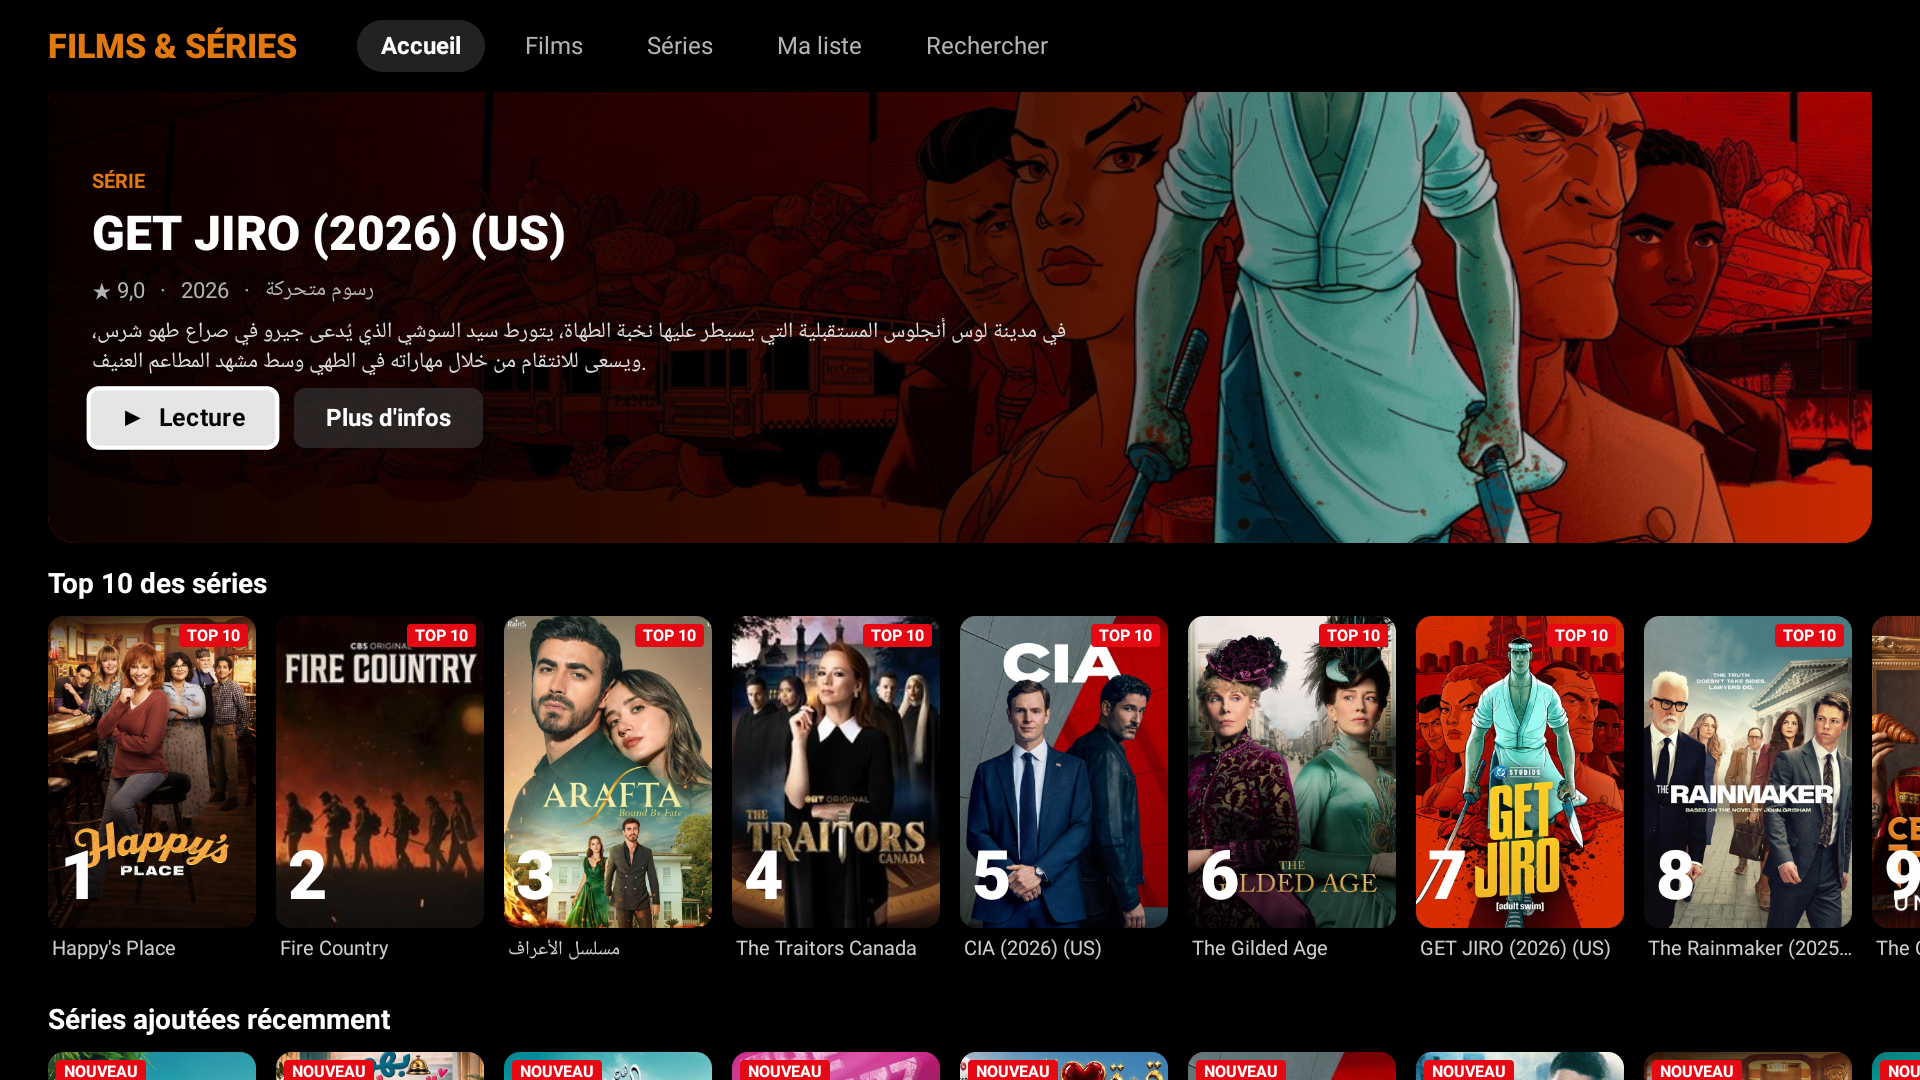
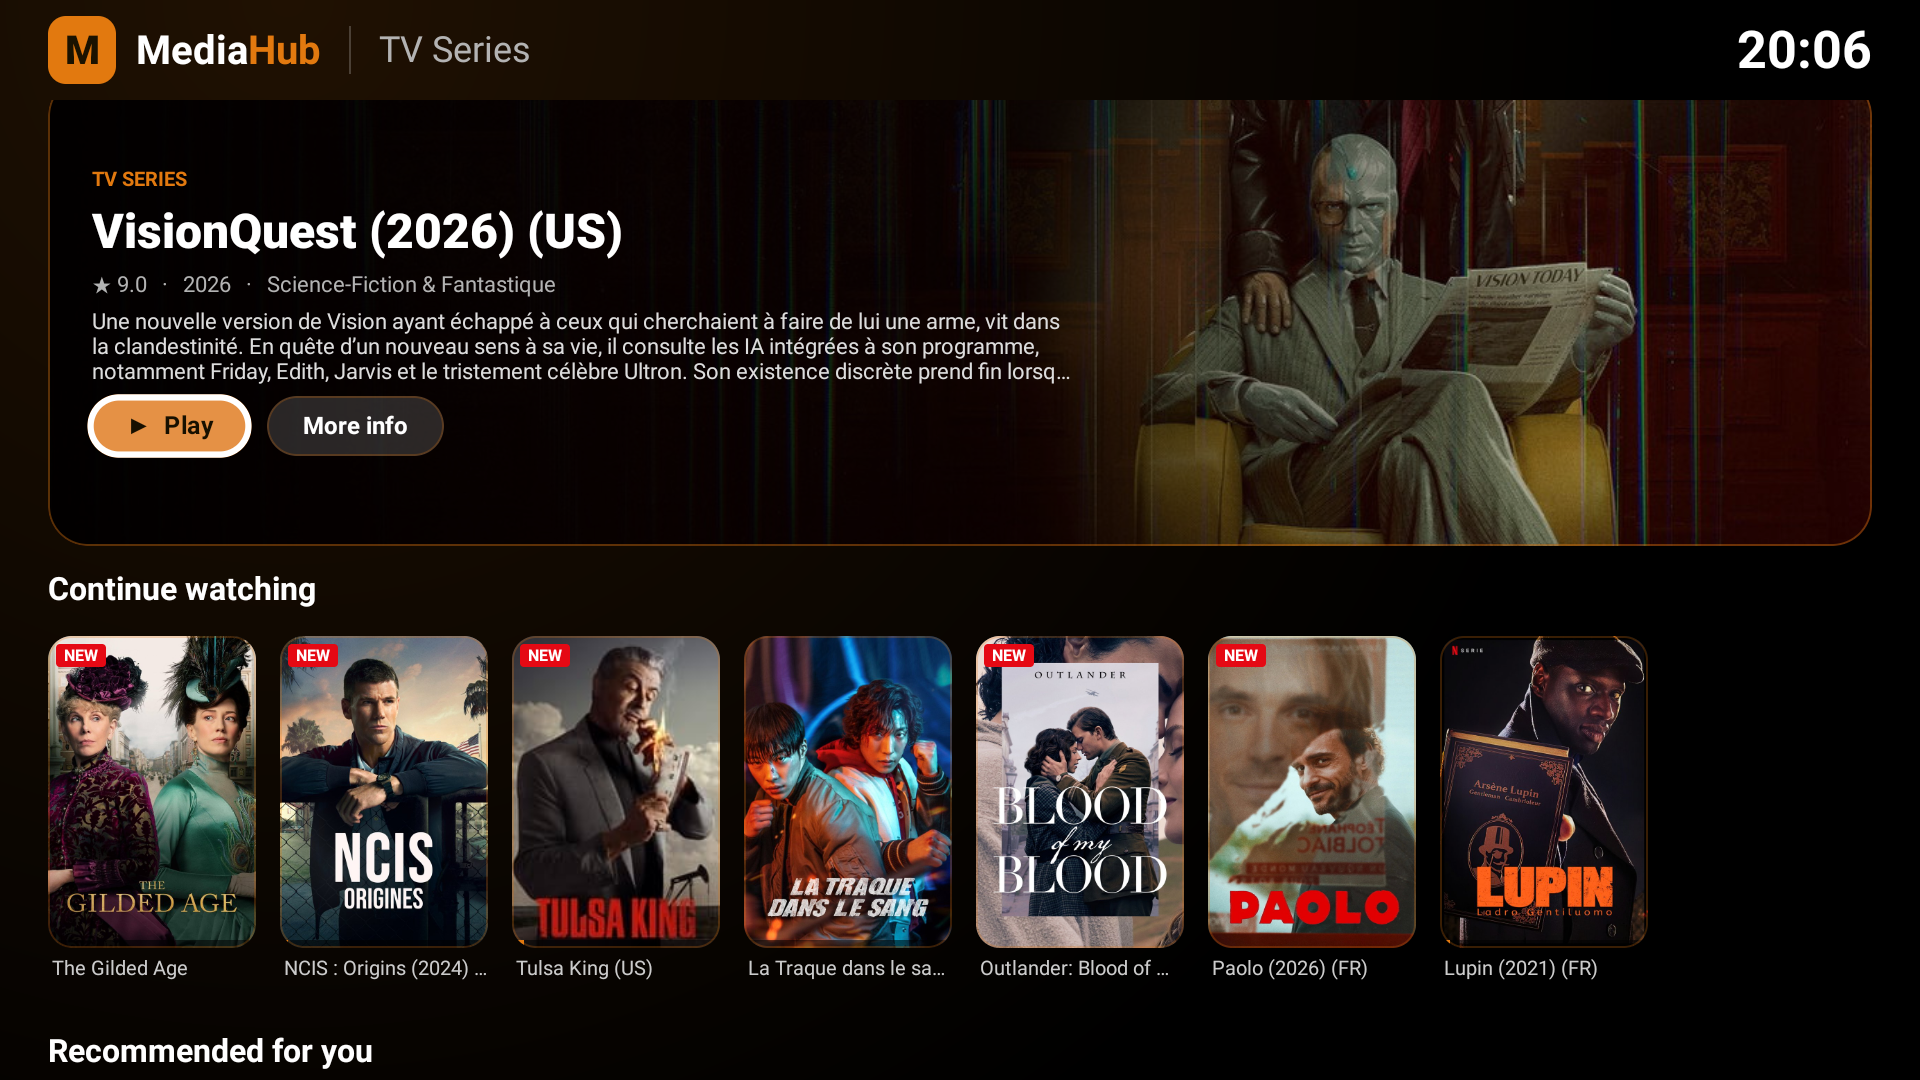
Update screenshots with the new Android TV layout
New Home (3 customisable app tiles), Settings hub, Home apps, Language, series and movies pages; README alt texts and feature list updated.

diff --git a/README.md b/README.md
@@ -3,7 +3,7 @@
 **Live TV, EPG, movies and series on every screen.** One interface for live TV and on-demand content from
 Enigma2 (OpenWebIF), Xtream Codes, M3U playlists, HDHomeRun and Tvheadend, on **Android TV**, **Windows** and any **x86 PC** (MediaHub OS).
 
-<p align="center"><img src="docs/screenshots/android-tv-home.png" width="85%" alt="MediaHub Home on Android TV: channel list on the left, mini player and full channel guide on the right"></p>
+<p align="center"><img src="docs/screenshots/android-tv-home.png" width="85%" alt="MediaHub Home on Android TV: Live TV, TV Series and Movies tiles, three customisable app tiles, VPN status and personal library"></p>
 
 > Italiano: [README.it.md](README.it.md)
 
@@ -21,13 +21,20 @@ Builds are **unsigned**: Windows (SmartScreen) and Android may ask for confirmat
 
 ## Screenshots
 
-<p align="center"><img src="docs/screenshots/movies-series-home.png" width="85%" alt="Netflix-style movies and series"></p>
+<p align="center"><img src="docs/screenshots/android-tv-settings.png" width="85%" alt="Settings hub: devices, guided setup, language, playback, home apps, VPN, speed test and more"></p>
+
+<p align="center"><img src="docs/screenshots/android-tv-home-apps.png" width="42%" alt="Home apps: choose which app each of the three small Home tiles opens"> <img src="docs/screenshots/android-tv-language.png" width="42%" alt="Language: System, Francais, English, Espanol, Italiano"></p>
+
+<p align="center"><img src="docs/screenshots/movies-series-home.png" width="85%" alt="Netflix-style TV series page with featured title and rows"></p>
+
+<p align="center"><img src="docs/screenshots/movies-catalogue.png" width="85%" alt="Movies catalogue: recently added and top rated rows"></p>
 
 <p align="center"><img src="docs/screenshots/series-detail.png" width="85%" alt="Series detail with seasons and episodes"></p>
 
 ## Features
 
-- **Two-pane Home**: channel list with logos on the left; on the right a mini player and the full guide of the selected channel.
+- **Home**: three big tiles (Live TV, TV Series, Movies), three small tiles for the apps you choose (Settings > Home apps; Plex, Netflix and YouTube by default), VPN status and personal library. Languages: English, French, Spanish, Italian.
+- **Two-pane Live TV**: channel list with logos on the left; on the right a mini player and the full guide of the selected channel.
   OK on a channel = preview, OK again = full screen.
 - **Multiple sources and accounts**: Enigma2/OpenWebIF, Xtream Codes, M3U, HDHomeRun, Tvheadend; quick switch between PVR accounts from the left rail.
 - **EPG**: per-channel guide, with an on-disk XMLTV cache for Xtream sources.

diff --git a/README.it.md b/README.it.md
@@ -3,7 +3,7 @@
 **Live TV, guida EPG, film e serie su ogni schermo.** Un'unica interfaccia per guardare la TV in diretta e i contenuti on demand
 da Enigma2 (OpenWebIF), Xtream Codes, liste M3U, HDHomeRun e Tvheadend: su Android TV, Windows e su qualsiasi PC x86 (MediaHub OS).
 
-<p align="center"><img src="docs/screenshots/android-tv-home.png" width="85%" alt="Home di MediaHub su Android TV: lista canali a sinistra, miniplayer e guida a destra"></p>
+<p align="center"><img src="docs/screenshots/android-tv-home.png" width="85%" alt="Home di MediaHub su Android TV: tile TV Live, Serie TV e Film, tre tile app personalizzabili, stato VPN e libreria personale"></p>
 
 > English: [README.md](README.md)
 
@@ -21,13 +21,20 @@ Elenco delle ultime 5 versioni di ogni tipo: vedi [`docs/DOWNLOAD.md`](docs/DOWN
 
 ## Screenshot
 
-<p align="center"><img src="docs/screenshots/movies-series-home.png" width="85%" alt="Film e serie in stile Netflix"></p>
+<p align="center"><img src="docs/screenshots/android-tv-settings.png" width="85%" alt="Hub Impostazioni: dispositivi, configurazione guidata, lingua, riproduzione, app della Home, VPN, speed test e altro"></p>
+
+<p align="center"><img src="docs/screenshots/android-tv-home-apps.png" width="42%" alt="App della Home: scegli quale app apre ciascuna delle tre tile piccole"> <img src="docs/screenshots/android-tv-language.png" width="42%" alt="Lingua: Sistema, Francais, English, Espanol, Italiano"></p>
+
+<p align="center"><img src="docs/screenshots/movies-series-home.png" width="85%" alt="Pagina serie TV in stile Netflix con titolo in evidenza e righe"></p>
+
+<p align="center"><img src="docs/screenshots/movies-catalogue.png" width="85%" alt="Catalogo film: aggiunti di recente e piu votati"></p>
 
 <p align="center"><img src="docs/screenshots/series-detail.png" width="85%" alt="Dettaglio serie con stagioni ed episodi"></p>
 
 ## Cosa fa
 
-- **Home a due metà**: lista canali con logo a sinistra; a destra miniplayer e guida completa del canale.
+- **Home**: tre tile grandi (TV Live, Serie TV, Film), tre tile piccole con le app che scegli (Impostazioni > App della Home; di serie Plex, Netflix e YouTube), stato VPN e libreria personale. Lingue: italiano, inglese, francese, spagnolo.
+- **TV Live a due metà**: lista canali con logo a sinistra; a destra miniplayer e guida completa del canale.
   OK su un canale = anteprima, OK di nuovo = schermo intero.
 - **Più sorgenti e account**: Enigma2/OpenWebIF, Xtream Codes, M3U, HDHomeRun, Tvheadend; cambio rapido tra più account PVR dalla barra a sinistra.
 - **Guida EPG**: per canale, con cache su disco (XMLTV) per le sorgenti Xtream.
